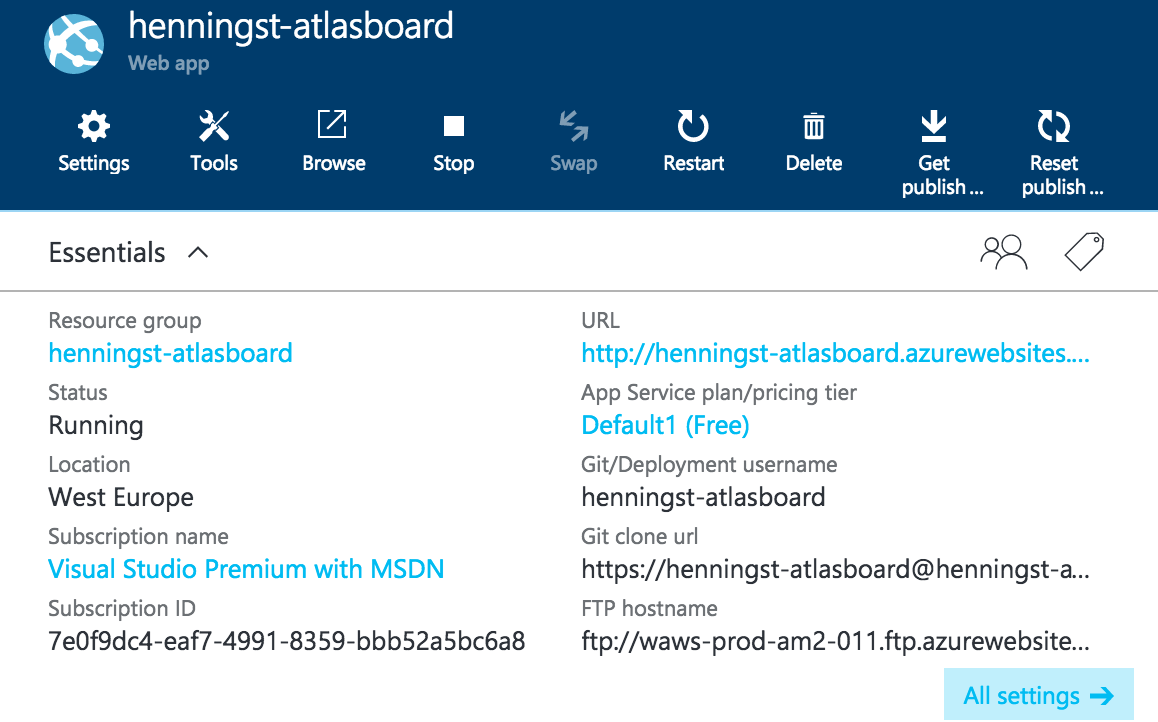
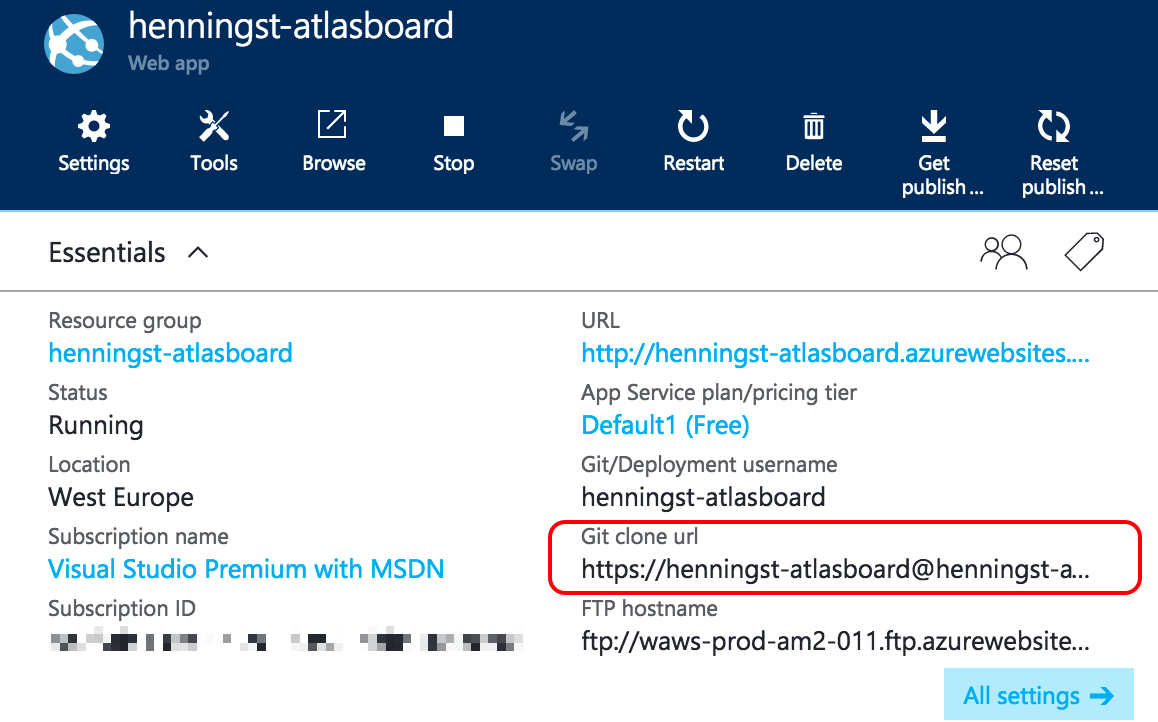
Moved draft to post

Changed region(s): [[0.4663, 0.7008, 0.9948, 0.8227], [0.0311, 0.8532, 0.4663, 0.9141]]

diff --git a/_posts/2016-05-13-atlasboard-on-azure-webapp.md b/_posts/2016-05-13-atlasboard-on-azure-webapp.md
@@ -1,7 +1,7 @@
 ---
 layout:     post
 title:      Running Atlasboard on an Azure Web App
-date:       2016-05-13 01:30:00
+date:       2016-05-13 09:30:00
 categories: atlasboard, azure, javascript
 ---
 
@@ -106,53 +106,74 @@ Then open "Deployment credentials" and set a username and password. This will be
 you use when adding Azure as a remote to your local git repository.
 
 The next thing you need to do is to initialize the mydashboard directory as a git repository by
-doing a ```git init```.
+doing a ```git init```. Make sure you do this inside the root directory of the dashboard you have created.
 
+Now add the git url of your web app as a remote in order to push to Azure.
 
---> fortsett her
+```git remote add azure https://[username]@[your-webapp-name].scm.azurewebsites.net:443/[your-webapp-name].git```
 
+You find the Git URL for your web app in the Azure portal as shown in the screenshot below.
 
-Initialized empty Git repository in /Users/henning/Projects/henningst-atlastest/mydashboard/.git/
+![Screenshot of Azure settings with Git URL]({{ site.url }}/assets/posts/atlasboard/3.png)
 
-Now add the git url of your web app as a remote in order to push to azure.
+Add and commit all files and push to Azure.
+```git add .;git commit -m "Initial commit";git push azure master```
 
-git remote add azure https://henningst-atlasboard@henningst-atlasboard.scm.azurewebsites.net:443/henningst-atlasboard.git
+You should now see all the files being pushed and you will also see some output from Kudu that takes care
+of installing your node app. If everything goes as expected, you should see ```remote: Deployment successful.```
+as one of the last lines of the output.
 
-Add and commit all files and push to azure.
-git add .;git commit -m "Initial commit";git push azure master
+## Tweak package-dependency-manager.js
+Your dashboard is now installed in Azure, but there is a small hack you need to do in order to
+get this working. In the Atlasboard dependency manager, you need to change the path to the npm command
+and modify the command that is issued when installing packages.
 
-You should see:
+This can be done through the Kudu Console which you can find using the following URL
+https://[your-webapp-name].*scm*.azurewebsites.net/DebugConsole. There is also a link to the
+Kudu dashboard from the Azure Portal (Tools --> Kudu --> Go) as shown in the screenshot below. 
 
-remote: Deployment successful.
+![Screenshot of Azure settings with Git URL]({{ site.url }}/assets/posts/atlasboard/4.png)
 
-
-
-After the site had been deployed and, the Kudu system in Azure makes sure the atlasboard npm package is installed. However, there is a ..... blabla. You need to modify one of the installed js files manually.
-
-This can be done through the Kudu Console that you find using the following URL
-https://[your-webapp-name].*scm*.azurewebsites.net/DebugConsole (or click tools->kudu as shown in the screenshot below.
 
 Locate the following file and edit it.
-D:\home\site\wwwroot\node_modules\atlasboard\lib\package-dependency-manager.js
+```D:\home\site\wwwroot\node_modules\atlasboard\lib\package-dependency-manager.js```
 
 Around line 92:
 
+Before:
+{% highlight javascript %}
   var npmCommand = isWindows ? "npm.cmd" : "npm";
 
   executeCommand(npmCommand, ["install", "--production", pathPackageJson], function(err, code){
+{% endhighlight %}
 
-
+After:
+{% highlight javascript %}
   var npmCommand = isWindows ? "D:\\Program Files (x86)\\npm\\3.5.1\\npm.cmd" : "npm";
 
   executeCommand(npmCommand, ["install", pathPackageJson], function(err, code){
+{% endhighlight %}
   
   
 If you access the web app url, you should now see the demo dashboard up and running!
 
+![Screenshot of a running Atlasboard]({{ site.url }}/assets/posts/atlasboard/5.png)
+
+## Thanks
+
+Thanks [@garyliu](https://twitter.com/garyliu) to for helping me get this up and running by answering
+my [stackoverflow question](http://stackoverflow.com/a/37109868/5795)
+
 
 ## Trouble shooting
+If you still run into problems, it might be useful to add the following lines to the iisnode.yml file
+in wwwroot where your webapp is installed.
 
-Add the following two lines to iisnode.yml. This will enable logging for iisnode and you´ll see log files starting to show up inside wwwroot/iisnode.
-
+{% highlight javascript %}
 loggingEnabled: true
 logDirectory: iisnode
+{% endhighlight %}
+
+
+This will enable logging for iisnode and you´ll see log files starting to show up inside wwwroot/iisnode.
+
